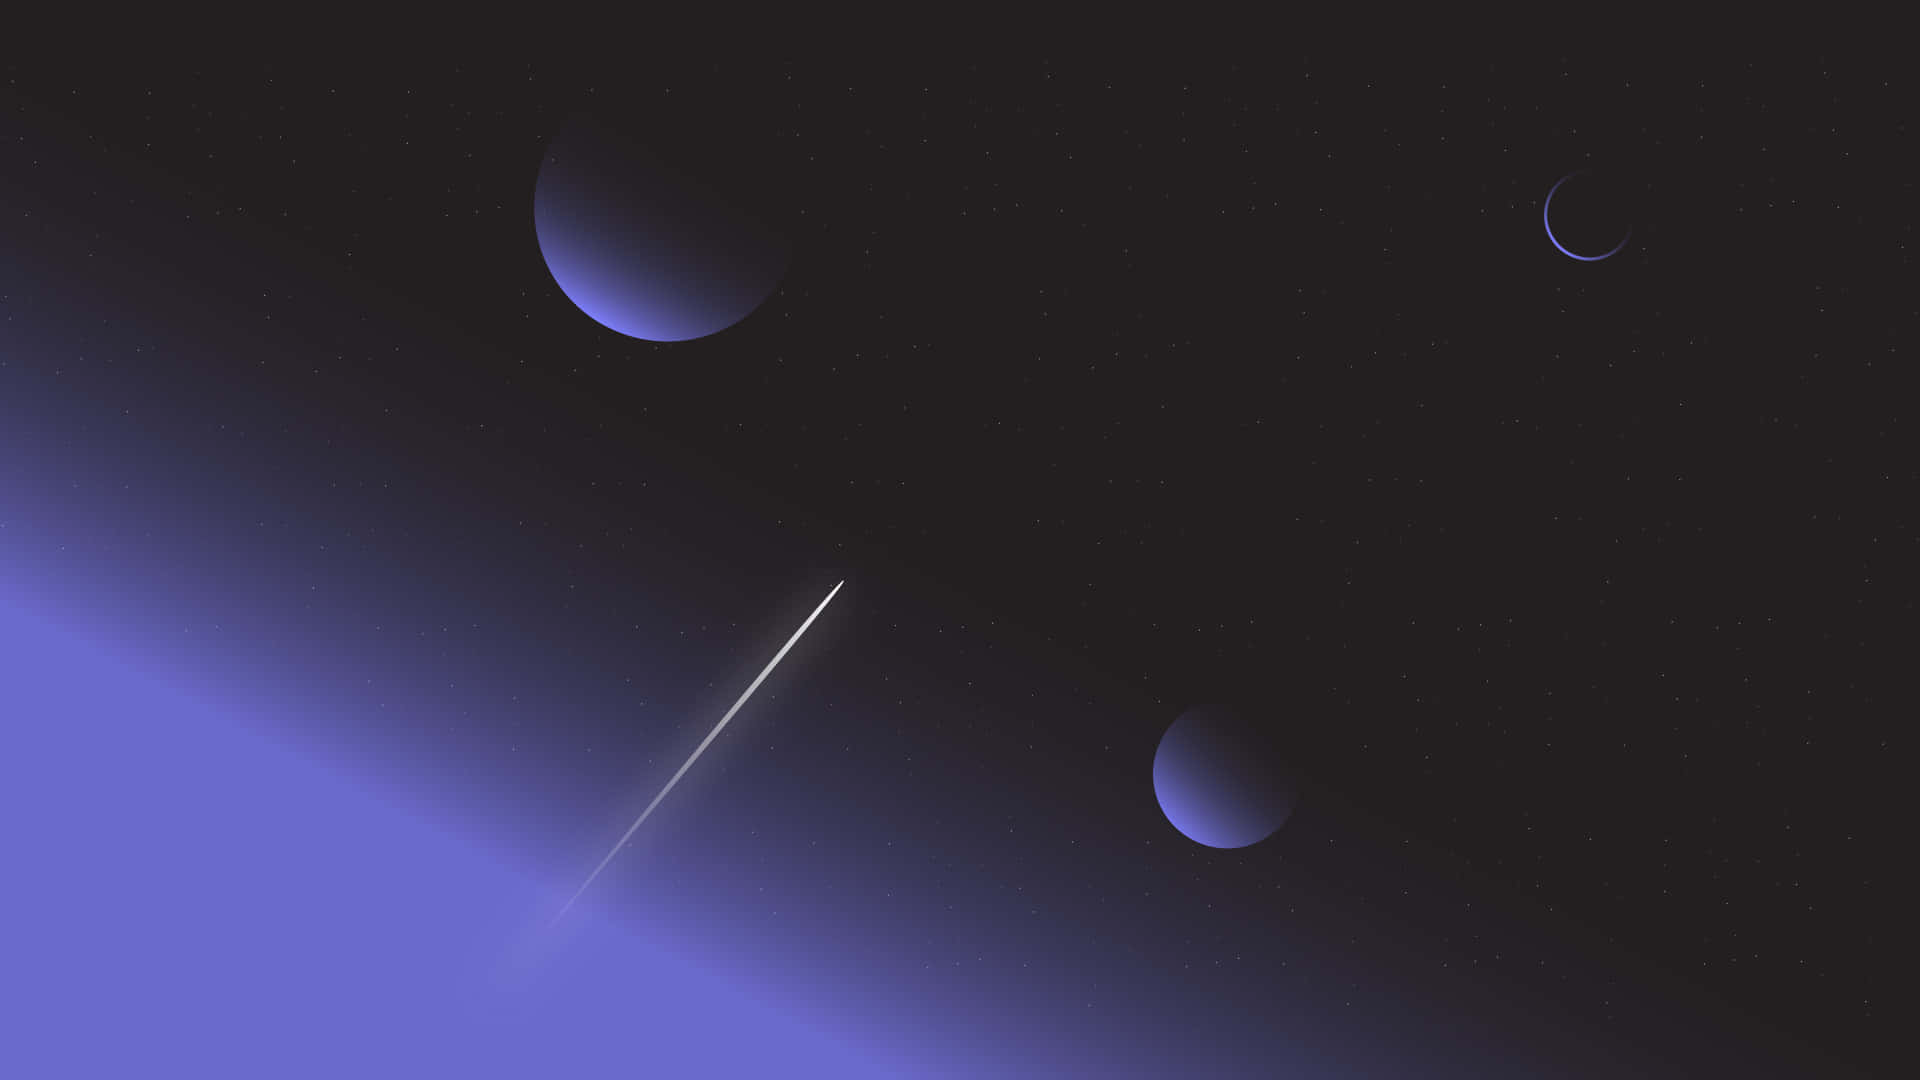
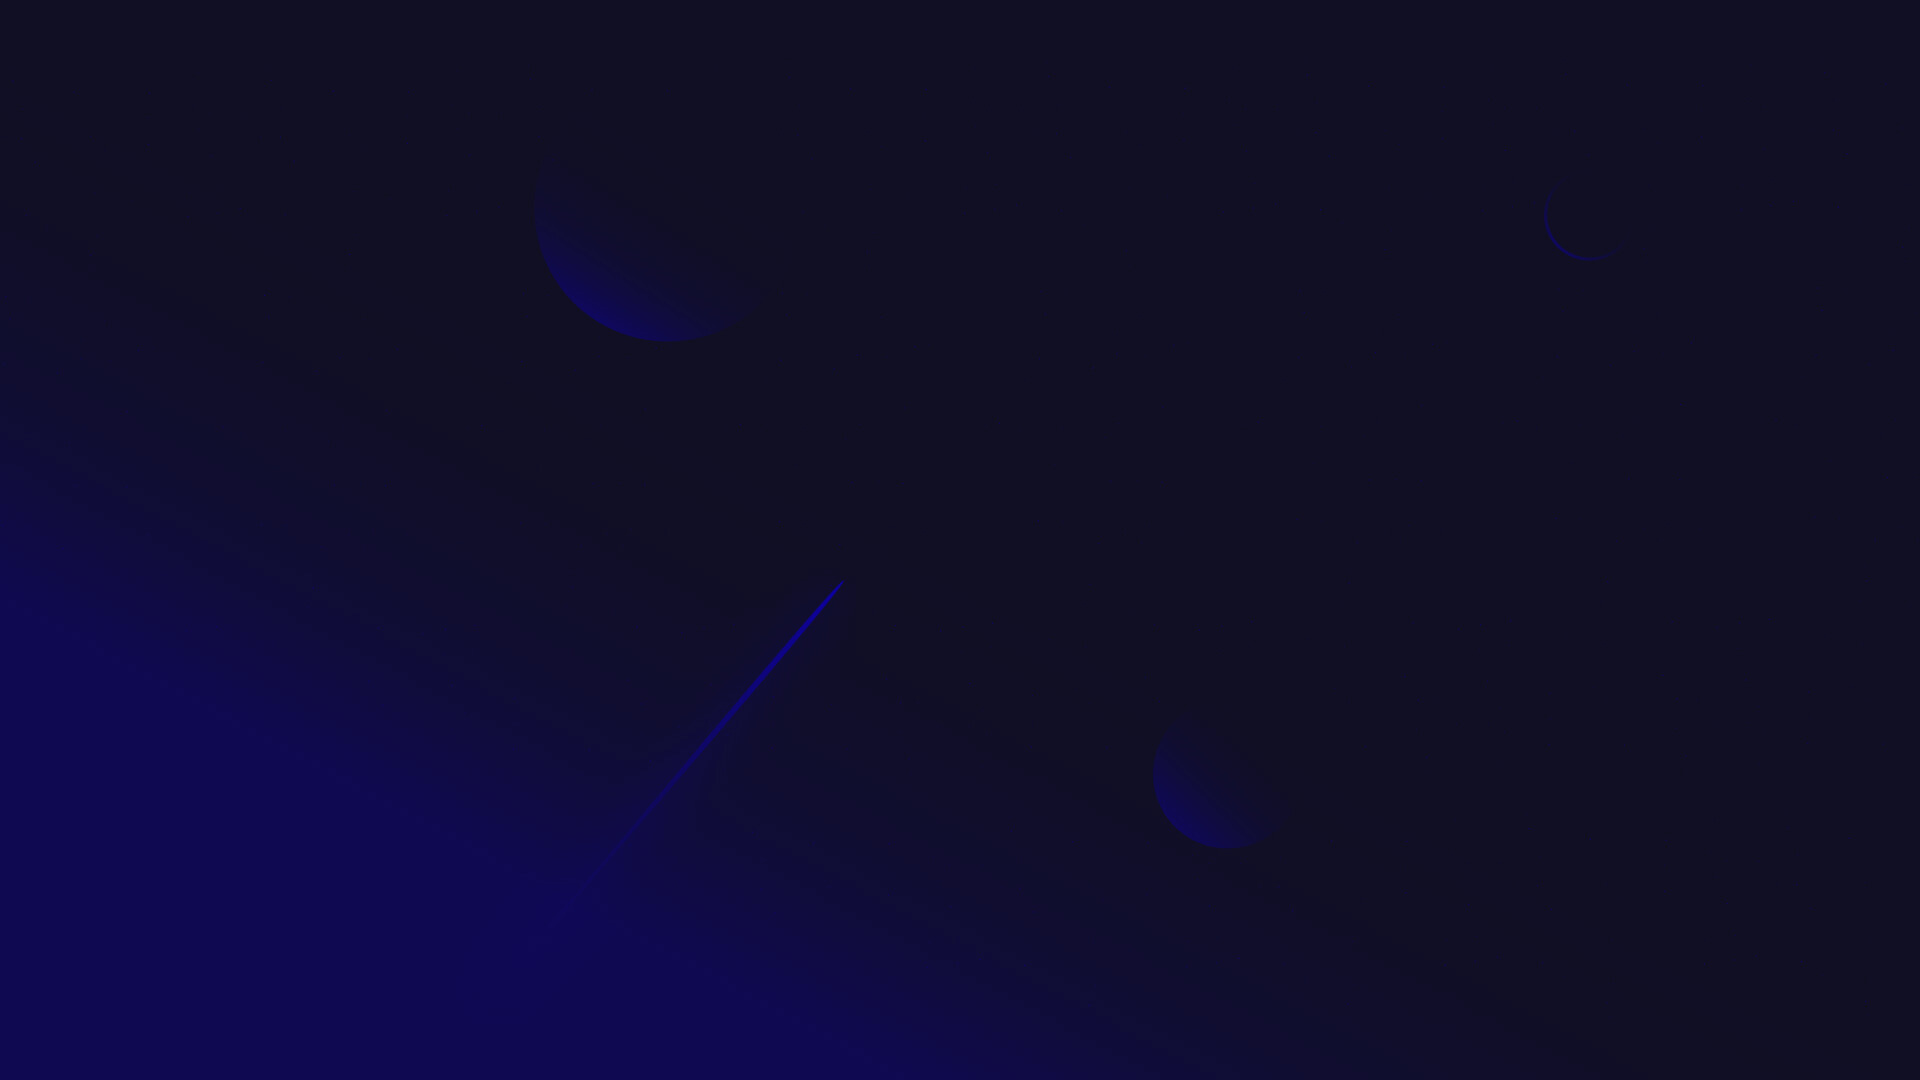
add background image to 404 page

diff --git a/src/components/NotFound.jsx b/src/components/NotFound.jsx
@@ -2,20 +2,20 @@ import React from "react";
 import { Link } from "react-router-dom";
 import Lottie from "lottie-react";
 import lostRobot from "../assets/lost-robot.json";
-// import backgroundImage from "../assets/404-bg.jpg";
+import backgroundImage from "../assets/404-bg.jpg";
 
 const NotFound = () => {
   return (
     <div
       className="flex flex-1 flex-col md:flex-row items-center justify-center bg text-white p-6 md:gap-20"
-      // style={{
-      //   backgroundImage: `url(${backgroundImage})`,
-      //   backgroundSize: "cover",
-      //   backgroundPosition: "center",
-      //   backgroundRepeat: "no-repeat",
-      //   minHeight: "80vh",
-      //   width: "100vw",
-      // }}
+      style={{
+        backgroundImage: `url(${backgroundImage})`,
+        backgroundSize: "cover",
+        backgroundPosition: "center",
+        backgroundRepeat: "no-repeat",
+        minHeight: "80vh",
+        width: "100vw",
+      }}
     >
       {/* Lottie Animation */}
       <div className="w-64 h-64 md:w-80 md:h-80 mt-0 md:order-2">
@@ -26,7 +26,7 @@ const NotFound = () => {
         <h1 className="text-4xl md:text-5xl font-bold mb-4 font-karlabold">
           Something went wrong!
         </h1>
-        <p className="mb-4 font-inconsolataregular">
+        <p className="mb-4 font-inconsolataregular text-white/70">
           Looks like the AiQ Elves took a coffee break, or are out partying
           again!
         </p>
